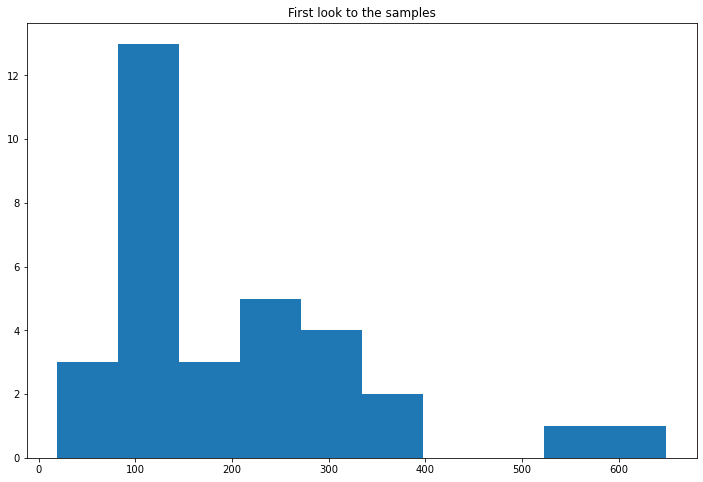
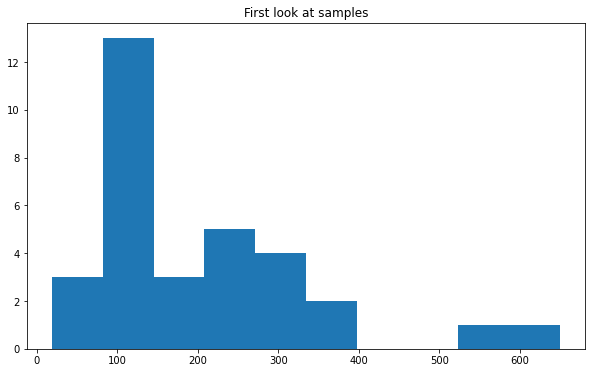
changing code and figures to match binder notebook

diff --git a/_episodes/03-Higgs_search.md b/_episodes/03-Higgs_search.md
@@ -11,11 +11,11 @@ objectives:
 - "Add error bars to the plot."
 - "Perform a Data vs. MC plot comparison."
 keypoints:
-- "To do."
+- In High-energy physics, histograms are used to analyze different data and MC distributions, using Matplotlib that is an important tool.
 ---
 
 
-# Samples
+
 
 As we mentioned before the goal is to reveal the decay of the Standard Model Higgs boson to two Z bosons and subsequently to four leptons
 (H->ZZ->llll), this is called as a "golden channel". 
@@ -23,11 +23,10 @@ As we mentioned before the goal is to reveal the decay of the Standard Model Hig
 For this tutorial we will use the ATLAS data collected during 2016 at a center-of-mass energy of 13 TeV, equivalent to 10fb⁻¹ of integrated luminosity.
 Here we will use the available 4 leptons final state samples for simulated samples (Monte Carlo "MC") and data, that after a selection, we will reveal a narrow invariant mass peak at 125 GeV, the Higgs.
 
-First we need to import pandas, numpy and the `matplotlib.pyplot` module under the name `plt`, as usual:
+First we need to import numpy and the `matplotlib.pyplot` module under the name `plt`, as usual:
 ~~~
 import matplotlib.pyplot as plt
 %matplotlib inline
-import pandas as pd
 import numpy as np
 ~~~
 {: .language-python}
@@ -36,7 +35,7 @@ import numpy as np
 > The jupyter backends (activated via `%matplotlib inline`, `%matplotlib notebook`, or `%matplotlib widget`), call show() at the end of every cell by default. Thus, you usually don't have to call it explicitly there.
 {: .callout}
 
-
+# Samples
 
 In the following dictionary, we have classified the samples we will work on, starting with the "data" samples, 
 followed by the "higgs" MC samples and at the end the "zz" and "others" MC background components.
@@ -73,7 +72,7 @@ for p in processes:
         # Load the dataframes
         sample = d[1] # Sample name
         samples.append(sample)
-        DataUproot = uproot.open(f'/kaggle/input/reducehiggs4lep/samples_FilterGem_{sample}.root')
+        DataUproot = uproot.open(f'./Data_03_Higgs_Search/OpenData_Atlas_{sample}.root')
         Tuples[sample] = DataUproot['myTree']
 ~~~
 {: .language-python}
@@ -115,7 +114,7 @@ for s in samples:
 
 Using the `plt.hist` method we can visualize the distribution the mass of the 4 leptons "m4l" for example fot the "data_A" sample. 
 ~~~
-plt.title("First look to the samples")
+plt.title("First look at samples")
 plt.hist(branches['data_A']['m4l'])
 
 ~~~
@@ -140,7 +139,7 @@ matplotlib.rcParams.update({'font.size': 16, 'font.family': 'serif'})
 {: .language-python}
 Let's do the plot again
 ~~~
-plt.title("First look to the samples")
+plt.title("First look at samples")
 plt.hist(branches['data_A']['m4l'])
 
 ~~~
@@ -274,9 +273,9 @@ for s in samples:
     sum_types_goodlep = (sum_types_ee | sum_types_mm | sum_types_em)
     sum_lep_selection = (sum_leptons & sum_charge & sum_types_goodlep)
     # Select good leptons with high transverse momentum
-    pt_0_selection = ((branches[s]['lep_pt'][:,0] > 25000) & (branches[s]['good_lep'][:,0] == 1))
-    pt_1_selection = ((branches[s]['lep_pt'][:,1] > 15000) & (branches[s]['good_lep'][:,1] == 1))
-    pt_2_selection = ((branches[s]['lep_pt'][:,2] > 10000) & (branches[s]['good_lep'][:,2] == 1))
+    pt_0_selection = branches[s]['goodlep_pt_0'] > 25000
+    pt_1_selection = branches[s]['goodlep_pt_1'] > 15000
+    pt_2_selection = branches[s]['goodlep_pt_2'] > 10000
     high_pt_selection = (pt_0_selection & pt_1_selection & pt_2_selection)
     final_selection = trigger & sum_types_goodlep & sum_lep_selection & high_pt_selection
     selection_events[s] = final_selection
